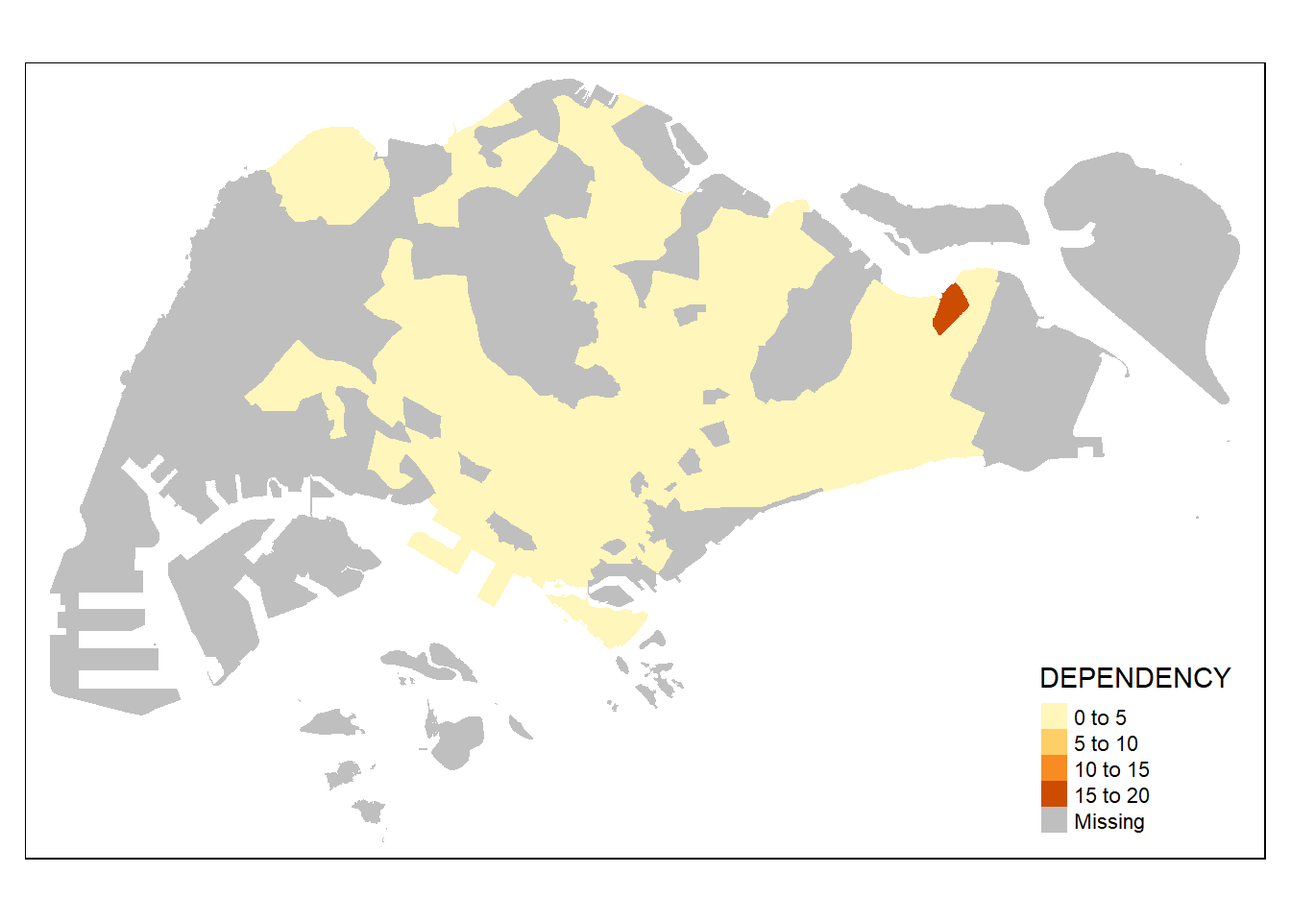
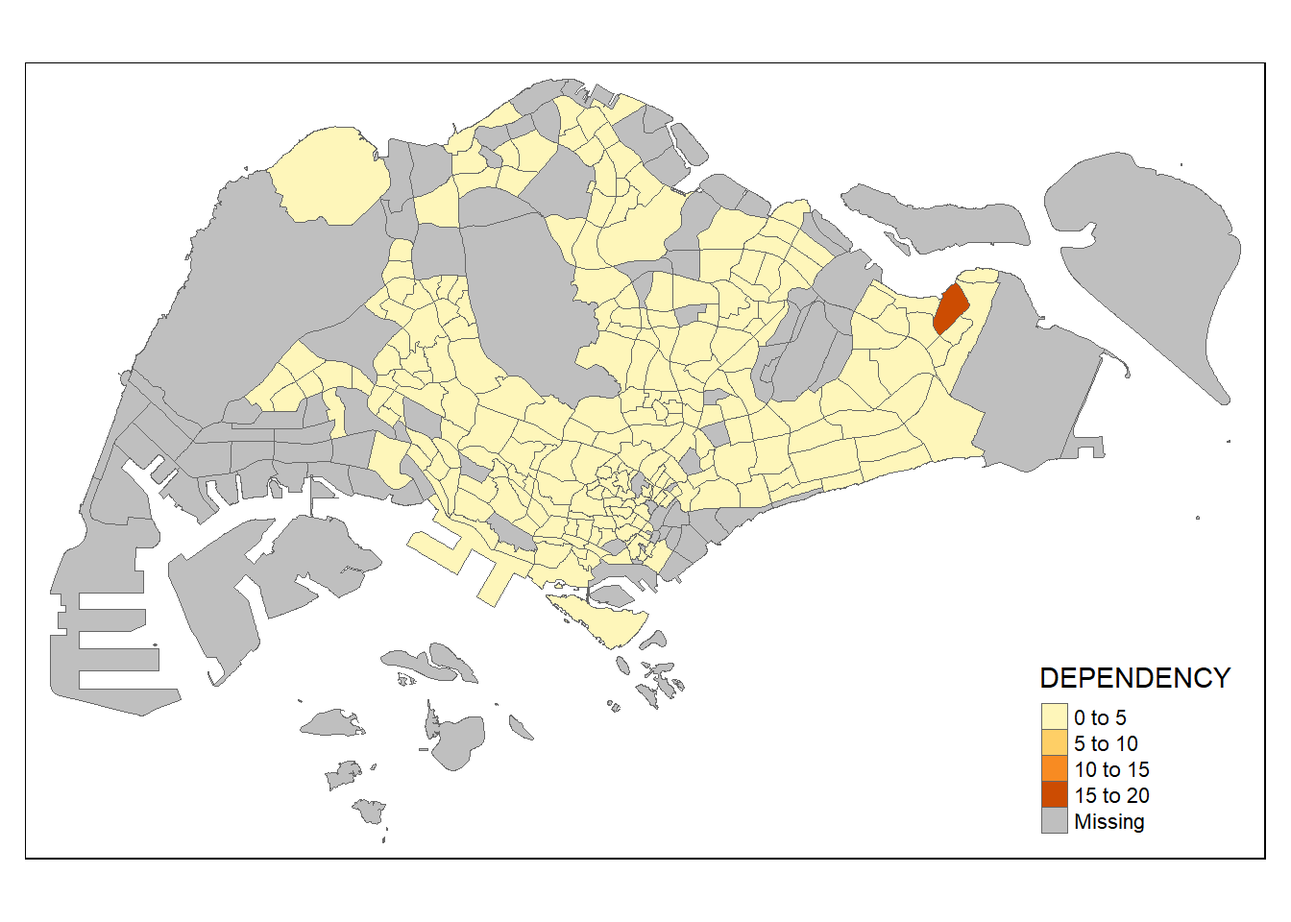
Formatting edits and added some callout notes to hands on exercise 1b

diff --git a/_site/Hands-on_Ex/Hands-on_Ex1/Hands-on_Ex1b.html b/_site/Hands-on_Ex/Hands-on_Ex1/Hands-on_Ex1b.html
@@ -263,7 +263,7 @@ Note
 </div>
 </div>
 <div class="callout-body-container callout-body">
-<p>Note that we will be using the readr, tidyr and dplyr packages which are part of the tidyverse package.</p>
+<p>We will be using the readr, tidyr and dplyr packages which are part of the tidyverse package.</p>
 </div>
 </div>
 </section>
@@ -280,7 +280,7 @@ Note
 <h2 data-number="3" class="anchored" data-anchor-id="importing-data"><span class="header-section-number">3</span> Importing Data</h2>
 <section id="importing-geospatial-data" class="level3" data-number="3.1">
 <h3 data-number="3.1" class="anchored" data-anchor-id="importing-geospatial-data"><span class="header-section-number">3.1</span> Importing Geospatial Data</h3>
-<p>The code chunk below uses st_read() function of sf package to import the planning subzones, which is a polygon feature data frame.</p>
+<p>The code chunk below uses <code>st_read()</code> function of <strong>sf</strong> package to import the planning subzones, which is a polygon feature data frame.</p>
 <div class="cell">
 <div class="sourceCode cell-code" id="cb2"><pre class="sourceCode r code-with-copy"><code class="sourceCode r"><span id="cb2-1"><a href="#cb2-1" aria-hidden="true" tabindex="-1"></a>mpsz <span class="ot">&lt;-</span> <span class="fu">st_read</span>(<span class="at">dsn =</span> <span class="st">"data/geospatial"</span>, <span class="at">layer =</span> <span class="st">"MP14_SUBZONE_WEB_PL"</span>)</span></code><button title="Copy to Clipboard" class="code-copy-button"><i class="bi"></i></button></pre></div>
 <div class="cell-output cell-output-stdout">
@@ -342,6 +342,7 @@ First 10 features:
 </section>
 <section id="importing-attribute-data" class="level3" data-number="3.2">
 <h3 data-number="3.2" class="anchored" data-anchor-id="importing-attribute-data"><span class="header-section-number">3.2</span> Importing Attribute Data</h3>
+<p>We will use <code>read_csv()</code></p>
 <div class="cell">
 <div class="sourceCode cell-code" id="cb6"><pre class="sourceCode r code-with-copy"><code class="sourceCode r"><span id="cb6-1"><a href="#cb6-1" aria-hidden="true" tabindex="-1"></a>popdata <span class="ot">&lt;-</span> <span class="fu">read_csv</span>(<span class="st">"data/aspatial/respopagesexfa2011to2020.csv"</span>)</span></code><button title="Copy to Clipboard" class="code-copy-button"><i class="bi"></i></button></pre></div>
 </div>
@@ -366,12 +367,24 @@ First 10 features:
 # ℹ 738,482 more rows</code></pre>
 </div>
 </div>
-<p>Note: We can do some exploratory data analysis after importing the data. For example, plot charts to understand the population data.</p>
+<div class="callout callout-style-default callout-note callout-titled">
+<div class="callout-header d-flex align-content-center">
+<div class="callout-icon-container">
+<i class="callout-icon"></i>
+</div>
+<div class="callout-title-container flex-fill">
+Note
+</div>
+</div>
+<div class="callout-body-container callout-body">
+<p>We can do some exploratory data analysis after importing the data. For example, plot charts to understand more about the population data.</p>
+</div>
+</div>
 </section>
 </section>
 <section id="data-preparation" class="level2" data-number="4">
 <h2 data-number="4" class="anchored" data-anchor-id="data-preparation"><span class="header-section-number">4</span> Data Preparation</h2>
-<p>Before a thematic map can be prepared, we need to prepare a data table with 2020 values. The data table should include the following variables:</p>
+<p>Before a thematic map can be prepared, we need to prepare a data table just for year 2020 values. The data table should include the following variables:</p>
 <ul>
 <li><p>PA</p></li>
 <li><p>SZ</p></li>
@@ -447,39 +460,16 @@ First 10 features:
 </section>
 <section id="creating-a-choropleth-map-by-using-tmaps-elements" class="level3" data-number="5.2">
 <h3 data-number="5.2" class="anchored" data-anchor-id="creating-a-choropleth-map-by-using-tmaps-elements"><span class="header-section-number">5.2</span> Creating a choropleth map by using <em>tmap</em>’s elements</h3>
-<p>To draw a high quality cartographic choropleth map as shown in the figure below, tmap’s drawing elements should be used.</p>
-<div class="cell">
-<div class="sourceCode cell-code" id="cb14"><pre class="sourceCode r code-with-copy"><code class="sourceCode r"><span id="cb14-1"><a href="#cb14-1" aria-hidden="true" tabindex="-1"></a><span class="fu">tm_shape</span>(mpsz_pop2020) <span class="sc">+</span> </span>
-<span id="cb14-2"><a href="#cb14-2" aria-hidden="true" tabindex="-1"></a>  <span class="fu">tm_fill</span>(<span class="st">"DEPENDENCY"</span>, </span>
-<span id="cb14-3"><a href="#cb14-3" aria-hidden="true" tabindex="-1"></a>          <span class="at">style =</span> <span class="st">"quantile"</span>,</span>
-<span id="cb14-4"><a href="#cb14-4" aria-hidden="true" tabindex="-1"></a>          <span class="at">palette =</span> <span class="st">"Blues"</span>,</span>
-<span id="cb14-5"><a href="#cb14-5" aria-hidden="true" tabindex="-1"></a>          <span class="at">title =</span> <span class="st">"Dependency ratio"</span>) <span class="sc">+</span> </span>
-<span id="cb14-6"><a href="#cb14-6" aria-hidden="true" tabindex="-1"></a>  <span class="fu">tm_layout</span>(<span class="at">main.title =</span> <span class="st">"Distribution of Dependency Ratio by planning subzone"</span>,</span>
-<span id="cb14-7"><a href="#cb14-7" aria-hidden="true" tabindex="-1"></a>            <span class="at">main.title.position =</span> <span class="st">"center"</span>,</span>
-<span id="cb14-8"><a href="#cb14-8" aria-hidden="true" tabindex="-1"></a>            <span class="at">main.title.size =</span> <span class="fl">1.2</span>,</span>
-<span id="cb14-9"><a href="#cb14-9" aria-hidden="true" tabindex="-1"></a>            <span class="at">legend.height =</span> <span class="fl">0.45</span>,</span>
-<span id="cb14-10"><a href="#cb14-10" aria-hidden="true" tabindex="-1"></a>            <span class="at">legend.width =</span> <span class="fl">0.35</span>,</span>
-<span id="cb14-11"><a href="#cb14-11" aria-hidden="true" tabindex="-1"></a>            <span class="at">frame =</span> <span class="cn">TRUE</span>) <span class="sc">+</span> </span>
-<span id="cb14-12"><a href="#cb14-12" aria-hidden="true" tabindex="-1"></a>  <span class="fu">tm_borders</span>(<span class="at">alpha =</span> <span class="fl">0.5</span>) <span class="sc">+</span></span>
-<span id="cb14-13"><a href="#cb14-13" aria-hidden="true" tabindex="-1"></a>  <span class="fu">tm_compass</span>(<span class="at">type =</span> <span class="st">"8star"</span>, <span class="at">size =</span> <span class="dv">2</span>) <span class="sc">+</span> </span>
-<span id="cb14-14"><a href="#cb14-14" aria-hidden="true" tabindex="-1"></a>  <span class="fu">tm_scale_bar</span>() <span class="sc">+</span></span>
-<span id="cb14-15"><a href="#cb14-15" aria-hidden="true" tabindex="-1"></a>  <span class="fu">tm_grid</span>(<span class="at">alpha =</span> <span class="fl">0.2</span>) <span class="sc">+</span></span>
-<span id="cb14-16"><a href="#cb14-16" aria-hidden="true" tabindex="-1"></a>  <span class="fu">tm_credits</span>(<span class="st">"Source: Planning Subzone boundary from Urban Redevelopment Authority (URA) </span><span class="sc">\n</span><span class="st"> and Population data from Department of Statistics (DOS)"</span>,</span>
-<span id="cb14-17"><a href="#cb14-17" aria-hidden="true" tabindex="-1"></a>             <span class="at">position =</span> <span class="fu">c</span>(<span class="st">"left"</span>, <span class="st">"bottom"</span>))</span></code><button title="Copy to Clipboard" class="code-copy-button"><i class="bi"></i></button></pre></div>
-<div class="cell-output-display">
-<p><img src="Hands-on_Ex1b_files/figure-html/unnamed-chunk-11-1.png" class="img-fluid" width="672"></p>
-</div>
-</div>
 <p>In the following sub-section, we will share with you tmap functions that used to plot these elements.</p>
 <section id="drawing-a-base-map" class="level4" data-number="5.2.1">
 <h4 data-number="5.2.1" class="anchored" data-anchor-id="drawing-a-base-map"><span class="header-section-number">5.2.1</span> Drawing a base map</h4>
 <p>The basic building block of tmap is tm_shape() followed by one or more layer elemments such as tm_fill() and tm_polygons().</p>
 <p>In the code chunk below, tm_shape() is used to define the input data (i.e mpsz_pop2020) and tm_polygons() is used to draw the planning subzone polygons.</p>
 <div class="cell">
-<div class="sourceCode cell-code" id="cb15"><pre class="sourceCode r code-with-copy"><code class="sourceCode r"><span id="cb15-1"><a href="#cb15-1" aria-hidden="true" tabindex="-1"></a> <span class="fu">tm_shape</span>(mpsz_pop2020) <span class="sc">+</span> </span>
-<span id="cb15-2"><a href="#cb15-2" aria-hidden="true" tabindex="-1"></a>   <span class="fu">tm_polygons</span>()</span></code><button title="Copy to Clipboard" class="code-copy-button"><i class="bi"></i></button></pre></div>
+<div class="sourceCode cell-code" id="cb14"><pre class="sourceCode r code-with-copy"><code class="sourceCode r"><span id="cb14-1"><a href="#cb14-1" aria-hidden="true" tabindex="-1"></a> <span class="fu">tm_shape</span>(mpsz_pop2020) <span class="sc">+</span> </span>
+<span id="cb14-2"><a href="#cb14-2" aria-hidden="true" tabindex="-1"></a>   <span class="fu">tm_polygons</span>()</span></code><button title="Copy to Clipboard" class="code-copy-button"><i class="bi"></i></button></pre></div>
 <div class="cell-output-display">
-<p><img src="Hands-on_Ex1b_files/figure-html/unnamed-chunk-12-1.png" class="img-fluid" width="672"></p>
+<p><img src="Hands-on_Ex1b_files/figure-html/unnamed-chunk-11-1.png" class="img-fluid" width="672"></p>
 </div>
 </div>
 </section>
@@ -487,10 +477,10 @@ First 10 features:
 <h4 data-number="5.2.2" class="anchored" data-anchor-id="drawing-a-choropleth-map-using-tm_polygons"><span class="header-section-number">5.2.2</span> Drawing a choropleth map using tm_polygons()</h4>
 <p>To draw a choropleth map showing the geographical distribution of a selected variable by planning subzone, we can assign the target variable (e.g.&nbsp;Dependency) to tm_polygons().</p>
 <div class="cell">
-<div class="sourceCode cell-code" id="cb16"><pre class="sourceCode r code-with-copy"><code class="sourceCode r"><span id="cb16-1"><a href="#cb16-1" aria-hidden="true" tabindex="-1"></a><span class="fu">tm_shape</span>(mpsz_pop2020) <span class="sc">+</span></span>
-<span id="cb16-2"><a href="#cb16-2" aria-hidden="true" tabindex="-1"></a>  <span class="fu">tm_polygons</span>(<span class="st">"DEPENDENCY"</span>)</span></code><button title="Copy to Clipboard" class="code-copy-button"><i class="bi"></i></button></pre></div>
+<div class="sourceCode cell-code" id="cb15"><pre class="sourceCode r code-with-copy"><code class="sourceCode r"><span id="cb15-1"><a href="#cb15-1" aria-hidden="true" tabindex="-1"></a><span class="fu">tm_shape</span>(mpsz_pop2020) <span class="sc">+</span></span>
+<span id="cb15-2"><a href="#cb15-2" aria-hidden="true" tabindex="-1"></a>  <span class="fu">tm_polygons</span>(<span class="st">"DEPENDENCY"</span>)</span></code><button title="Copy to Clipboard" class="code-copy-button"><i class="bi"></i></button></pre></div>
 <div class="cell-output-display">
-<p><img src="Hands-on_Ex1b_files/figure-html/unnamed-chunk-13-1.png" class="img-fluid" width="672"></p>
+<p><img src="Hands-on_Ex1b_files/figure-html/unnamed-chunk-12-1.png" class="img-fluid" width="672"></p>
 </div>
 </div>
 </section>
@@ -498,16 +488,42 @@ First 10 features:
 <h4 data-number="5.2.3" class="anchored" data-anchor-id="drawing-a-choropleth-map-using-tm_fill-and-tm_border"><span class="header-section-number">5.2.3</span> Drawing a choropleth map using tm_fill() and tm_border()</h4>
 <p>tm_polygons is a wraper of tm_fill() and tm_border(). tm_fill() shades the polygons using the default colour scheme and tm_borders() adds the borders of the shapefile onto the choropleth map.</p>
 <div class="cell">
+<div class="sourceCode cell-code" id="cb16"><pre class="sourceCode r code-with-copy"><code class="sourceCode r"><span id="cb16-1"><a href="#cb16-1" aria-hidden="true" tabindex="-1"></a><span class="fu">tm_shape</span>(mpsz_pop2020) <span class="sc">+</span> </span>
+<span id="cb16-2"><a href="#cb16-2" aria-hidden="true" tabindex="-1"></a>  <span class="fu">tm_fill</span>(<span class="st">"DEPENDENCY"</span>)</span></code><button title="Copy to Clipboard" class="code-copy-button"><i class="bi"></i></button></pre></div>
+<div class="cell-output-display">
+<p><img src="Hands-on_Ex1b_files/figure-html/unnamed-chunk-13-1.png" class="img-fluid" width="672"></p>
+</div>
+</div>
+<div class="cell">
 <div class="sourceCode cell-code" id="cb17"><pre class="sourceCode r code-with-copy"><code class="sourceCode r"><span id="cb17-1"><a href="#cb17-1" aria-hidden="true" tabindex="-1"></a><span class="fu">tm_shape</span>(mpsz_pop2020) <span class="sc">+</span> </span>
-<span id="cb17-2"><a href="#cb17-2" aria-hidden="true" tabindex="-1"></a>  <span class="fu">tm_fill</span>(<span class="st">"DEPENDENCY"</span>)</span></code><button title="Copy to Clipboard" class="code-copy-button"><i class="bi"></i></button></pre></div>
+<span id="cb17-2"><a href="#cb17-2" aria-hidden="true" tabindex="-1"></a>  <span class="fu">tm_fill</span>(<span class="st">"DEPENDENCY"</span>) <span class="sc">+</span> </span>
+<span id="cb17-3"><a href="#cb17-3" aria-hidden="true" tabindex="-1"></a>  <span class="fu">tm_borders</span>(<span class="at">lw =</span> <span class="fl">0.1</span>, <span class="at">alpha =</span> <span class="dv">1</span>)</span></code><button title="Copy to Clipboard" class="code-copy-button"><i class="bi"></i></button></pre></div>
 <div class="cell-output-display">
 <p><img src="Hands-on_Ex1b_files/figure-html/unnamed-chunk-14-1.png" class="img-fluid" width="672"></p>
 </div>
 </div>
+</section>
+<section id="putting-it-all-together" class="level4" data-number="5.2.4">
+<h4 data-number="5.2.4" class="anchored" data-anchor-id="putting-it-all-together"><span class="header-section-number">5.2.4</span> Putting it all together</h4>
+<p>To draw a high quality cartographic choropleth map as shown in the figure below, tmap’s drawing elements should be used.</p>
 <div class="cell">
-<div class="sourceCode cell-code" id="cb18"><pre class="sourceCode r code-with-copy"><code class="sourceCode r"><span id="cb18-1"><a href="#cb18-1" aria-hidden="true" tabindex="-1"></a><span class="fu">tm_shape</span>(mpsz_pop2020) <span class="sc">+</span> </span>
-<span id="cb18-2"><a href="#cb18-2" aria-hidden="true" tabindex="-1"></a>  <span class="fu">tm_fill</span>(<span class="st">"DEPENDENCY"</span>) <span class="sc">+</span> </span>
-<span id="cb18-3"><a href="#cb18-3" aria-hidden="true" tabindex="-1"></a>  <span class="fu">tm_borders</span>(<span class="at">lw =</span> <span class="fl">0.1</span>, <span class="at">alpha =</span> <span class="dv">1</span>)</span></code><button title="Copy to Clipboard" class="code-copy-button"><i class="bi"></i></button></pre></div>
+<div class="sourceCode cell-code" id="cb18"><pre class="sourceCode r code-with-copy"><code class="sourceCode r"><span id="cb18-1"><a href="#cb18-1" aria-hidden="true" tabindex="-1"></a><span class="fu">tm_shape</span>(mpsz_pop2020) <span class="sc">+</span>    </span>
+<span id="cb18-2"><a href="#cb18-2" aria-hidden="true" tabindex="-1"></a>  <span class="fu">tm_fill</span>(<span class="st">"DEPENDENCY"</span>,</span>
+<span id="cb18-3"><a href="#cb18-3" aria-hidden="true" tabindex="-1"></a>          <span class="at">style =</span> <span class="st">"quantile"</span>,</span>
+<span id="cb18-4"><a href="#cb18-4" aria-hidden="true" tabindex="-1"></a>          <span class="at">palette =</span> <span class="st">"Blues"</span>,</span>
+<span id="cb18-5"><a href="#cb18-5" aria-hidden="true" tabindex="-1"></a>          <span class="at">title =</span> <span class="st">"Dependency ratio"</span>) <span class="sc">+</span></span>
+<span id="cb18-6"><a href="#cb18-6" aria-hidden="true" tabindex="-1"></a>  <span class="fu">tm_layout</span>(<span class="at">main.title =</span> <span class="st">"Distribution of Dependency Ratio by planning subzone"</span>,</span>
+<span id="cb18-7"><a href="#cb18-7" aria-hidden="true" tabindex="-1"></a>            <span class="at">main.title.position =</span> <span class="st">"center"</span>,</span>
+<span id="cb18-8"><a href="#cb18-8" aria-hidden="true" tabindex="-1"></a>            <span class="at">main.title.size =</span> <span class="fl">1.2</span>,             </span>
+<span id="cb18-9"><a href="#cb18-9" aria-hidden="true" tabindex="-1"></a>            <span class="at">legend.height =</span> <span class="fl">0.45</span>,             </span>
+<span id="cb18-10"><a href="#cb18-10" aria-hidden="true" tabindex="-1"></a>            <span class="at">legend.width =</span> <span class="fl">0.35</span>,             </span>
+<span id="cb18-11"><a href="#cb18-11" aria-hidden="true" tabindex="-1"></a>            <span class="at">frame =</span> <span class="cn">TRUE</span>) <span class="sc">+</span>    </span>
+<span id="cb18-12"><a href="#cb18-12" aria-hidden="true" tabindex="-1"></a>  <span class="fu">tm_borders</span>(<span class="at">alpha =</span> <span class="fl">0.5</span>) <span class="sc">+</span>   </span>
+<span id="cb18-13"><a href="#cb18-13" aria-hidden="true" tabindex="-1"></a>  <span class="fu">tm_compass</span>(<span class="at">type =</span> <span class="st">"8star"</span>, <span class="at">size =</span> <span class="dv">2</span>) <span class="sc">+</span>    </span>
+<span id="cb18-14"><a href="#cb18-14" aria-hidden="true" tabindex="-1"></a>  <span class="fu">tm_scale_bar</span>() <span class="sc">+</span>   </span>
+<span id="cb18-15"><a href="#cb18-15" aria-hidden="true" tabindex="-1"></a>  <span class="fu">tm_grid</span>(<span class="at">alpha =</span> <span class="fl">0.2</span>) <span class="sc">+</span>   </span>
+<span id="cb18-16"><a href="#cb18-16" aria-hidden="true" tabindex="-1"></a>  <span class="fu">tm_credits</span>(<span class="st">"Source: Planning Subzone boundary from Urban Redevelopment Authority (URA) </span><span class="sc">\n</span><span class="st"> and Population data from Department of Statistics (DOS)"</span>,              </span>
+<span id="cb18-17"><a href="#cb18-17" aria-hidden="true" tabindex="-1"></a>             <span class="at">position =</span> <span class="fu">c</span>(<span class="st">"left"</span>, <span class="st">"bottom"</span>)) </span></code><button title="Copy to Clipboard" class="code-copy-button"><i class="bi"></i></button></pre></div>
 <div class="cell-output-display">
 <p><img src="Hands-on_Ex1b_files/figure-html/unnamed-chunk-15-1.png" class="img-fluid" width="672"></p>
 </div>
@@ -516,8 +532,21 @@ First 10 features:
 </section>
 <section id="data-classification-methods-of-tmap" class="level3" data-number="5.3">
 <h3 data-number="5.3" class="anchored" data-anchor-id="data-classification-methods-of-tmap"><span class="header-section-number">5.3</span> Data Classification Methods of tmap</h3>
-<p>Most choropleth maps employ some methods of data classification. The point of classification is to take a large number of observations and group them into data ranges or classes.</p>
+<p>Most choropleth maps use some methods of data classification in order to take a large number of observations and group them into data ranges or classes.</p>
 <p>tmap provides a total ten data classification methods, namely: fixed, sd, equal, pretty (default), quantile, kmeans, hclust, bclust, fisher, and jenks.</p>
+<div class="callout callout-style-default callout-note callout-titled">
+<div class="callout-header d-flex align-content-center">
+<div class="callout-icon-container">
+<i class="callout-icon"></i>
+</div>
+<div class="callout-title-container flex-fill">
+Note
+</div>
+</div>
+<div class="callout-body-container callout-body">
+<p>For more information on data classification for choropleth maps, you can refer <a href="https://gisgeography.com/choropleth-maps-data-classification/#:~:text=Data%20Classification%3A%20Try%20It%20Out,method%20impacts%20the%20reader%20differently." title="Choropleth Maps – A Guide to Data Classification">here</a>.</p>
+</div>
+</div>
 <p>To define a data classification method, the style argument of tm_fill() or tm_polygons() will be used.</p>
 <section id="plotting-choropleth-maps-with-built-in-classification-methods" class="level4" data-number="5.3.1">
 <h4 data-number="5.3.1" class="anchored" data-anchor-id="plotting-choropleth-maps-with-built-in-classification-methods"><span class="header-section-number">5.3.1</span> Plotting choropleth maps with built-in classification methods</h4>
@@ -556,7 +585,7 @@ First 10 features:
 </div>
 </div>
 <p>Using the above results, we set the break points at 0.60, 0.70, 0.80, 0.90, and 0 will be the minimum while 1 will be the maximum.</p>
-<p>We plot the choropleth map using the following code chunk:</p>
+<p>We plot the choropleth map with our customised breaks using the following code chunk:</p>
 <div class="cell">
 <div class="sourceCode cell-code" id="cb23"><pre class="sourceCode r code-with-copy"><code class="sourceCode r"><span id="cb23-1"><a href="#cb23-1" aria-hidden="true" tabindex="-1"></a><span class="fu">tm_shape</span>(mpsz_pop2020) <span class="sc">+</span></span>
 <span id="cb23-2"><a href="#cb23-2" aria-hidden="true" tabindex="-1"></a>  <span class="fu">tm_fill</span>(<span class="st">"DEPENDENCY"</span>, </span>
@@ -570,7 +599,7 @@ First 10 features:
 </section>
 <section id="colour-scheme" class="level3" data-number="5.4">
 <h3 data-number="5.4" class="anchored" data-anchor-id="colour-scheme"><span class="header-section-number">5.4</span> Colour Scheme</h3>
-<p>tmap supports colour ramps either defined by the user or a set of predefined colour ramps from the RColorBrewer package.</p>
+<p><strong>tmap</strong> supports colour ramps either defined by the user or a set of predefined colour ramps from the <strong>RColorBrewer</strong> package.</p>
 <section id="using-colourbrewer-palette" class="level4" data-number="5.4.1">
 <h4 data-number="5.4.1" class="anchored" data-anchor-id="using-colourbrewer-palette"><span class="header-section-number">5.4.1</span> Using ColourBrewer palette</h4>
 <div class="cell">
@@ -602,7 +631,7 @@ First 10 features:
 <h3 data-number="5.5" class="anchored" data-anchor-id="map-layouts"><span class="header-section-number">5.5</span> Map Layouts</h3>
 <section id="map-legend" class="level4" data-number="5.5.1">
 <h4 data-number="5.5.1" class="anchored" data-anchor-id="map-legend"><span class="header-section-number">5.5.1</span> Map Legend</h4>
-<p>In tmap, several legend options are provided to change the placement, format and appearance of the legend.</p>
+<p>In <strong>tmap</strong>, several legend options are available to change the placement, format and appearance of the legend.</p>
 <div class="cell">
 <div class="sourceCode cell-code" id="cb26"><pre class="sourceCode r code-with-copy"><code class="sourceCode r"><span id="cb26-1"><a href="#cb26-1" aria-hidden="true" tabindex="-1"></a><span class="fu">tm_shape</span>(mpsz_pop2020) <span class="sc">+</span> </span>
 <span id="cb26-2"><a href="#cb26-2" aria-hidden="true" tabindex="-1"></a>  <span class="fu">tm_fill</span>(<span class="st">"DEPENDENCY"</span>, </span>
@@ -627,7 +656,7 @@ First 10 features:
 </section>
 <section id="map-style" class="level4" data-number="5.5.2">
 <h4 data-number="5.5.2" class="anchored" data-anchor-id="map-style"><span class="header-section-number">5.5.2</span> Map Style</h4>
-<p>tmap allows a wide variety of layout settings to be changed. They can be called by using tmap_style().</p>
+<p><strong>tmap</strong> allows a wide variety of layout settings to be changed. They can be called by using <code>tmap_style()</code>.</p>
 <p>The code chunk below shows the classic style is used.</p>
 <div class="cell">
 <div class="sourceCode cell-code" id="cb27"><pre class="sourceCode r code-with-copy"><code class="sourceCode r"><span id="cb27-1"><a href="#cb27-1" aria-hidden="true" tabindex="-1"></a><span class="fu">tm_shape</span>(mpsz_pop2020) <span class="sc">+</span> </span>
@@ -643,8 +672,8 @@ First 10 features:
 </section>
 <section id="cartographic-furniture" class="level4" data-number="5.5.3">
 <h4 data-number="5.5.3" class="anchored" data-anchor-id="cartographic-furniture"><span class="header-section-number">5.5.3</span> Cartographic Furniture</h4>
-<p>tmap also also provides arguments to draw other map furniture such as compass, scale bar and grid lines.</p>
-<p>In the code chunk below, tm_compass(), tm_scale_bar() and tm_grid() are used to add compass, scale bar and grid lines onto the choropleth map.</p>
+<p><strong>tmap</strong> also also provides arguments to draw other map furniture such as compass, scale bar and grid lines.</p>
+<p>In the code chunk below, <code>tm_compass()</code>, <code>tm_scale_bar()</code> and <code>tm_grid()</code> are used to add compass, scale bar and grid lines onto the choropleth map.</p>
 <div class="cell">
 <div class="sourceCode cell-code" id="cb28"><pre class="sourceCode r code-with-copy"><code class="sourceCode r"><span id="cb28-1"><a href="#cb28-1" aria-hidden="true" tabindex="-1"></a><span class="fu">tm_shape</span>(mpsz_pop2020) <span class="sc">+</span> </span>
 <span id="cb28-2"><a href="#cb28-2" aria-hidden="true" tabindex="-1"></a>  <span class="fu">tm_fill</span>(<span class="st">"DEPENDENCY"</span>, <span class="at">style =</span> <span class="st">"quantile"</span>,</span>
@@ -666,6 +695,7 @@ First 10 features:
 <p><img src="Hands-on_Ex1b_files/figure-html/unnamed-chunk-24-1.png" class="img-fluid" width="672"></p>
 </div>
 </div>
+<p>To return to the previous map style, use the following code chunk:</p>
 <div class="cell">
 <div class="sourceCode cell-code" id="cb29"><pre class="sourceCode r code-with-copy"><code class="sourceCode r"><span id="cb29-1"><a href="#cb29-1" aria-hidden="true" tabindex="-1"></a><span class="fu">tmap_style</span>(<span class="st">"white"</span>)</span></code><button title="Copy to Clipboard" class="code-copy-button"><i class="bi"></i></button></pre></div>
 </div>
@@ -676,8 +706,8 @@ First 10 features:
 <p>In tmap, small multiple maps (also known as facet maps) can be plotted in three ways:</p>
 <ul>
 <li><p>by assigning multiple values to at least one of the asthetic arguments,</p></li>
-<li><p>by defining a group-by variable in tm_facets(), and</p></li>
-<li><p>by creating multiple stand-alone maps with tmap_arrange().</p></li>
+<li><p>by defining a group-by variable in <code>tm_facets()</code>, and</p></li>
+<li><p>by creating multiple stand-alone maps with <code>tmap_arrange()</code>.</p></li>
 </ul>
 <section id="by-assigning-multiple-values-to-at-least-one-of-the-aesthetic-arguments" class="level4" data-number="5.6.1">
 <h4 data-number="5.6.1" class="anchored" data-anchor-id="by-assigning-multiple-values-to-at-least-one-of-the-aesthetic-arguments"><span class="header-section-number">5.6.1</span> By assigning multiple values to at least one of the aesthetic arguments</h4>
